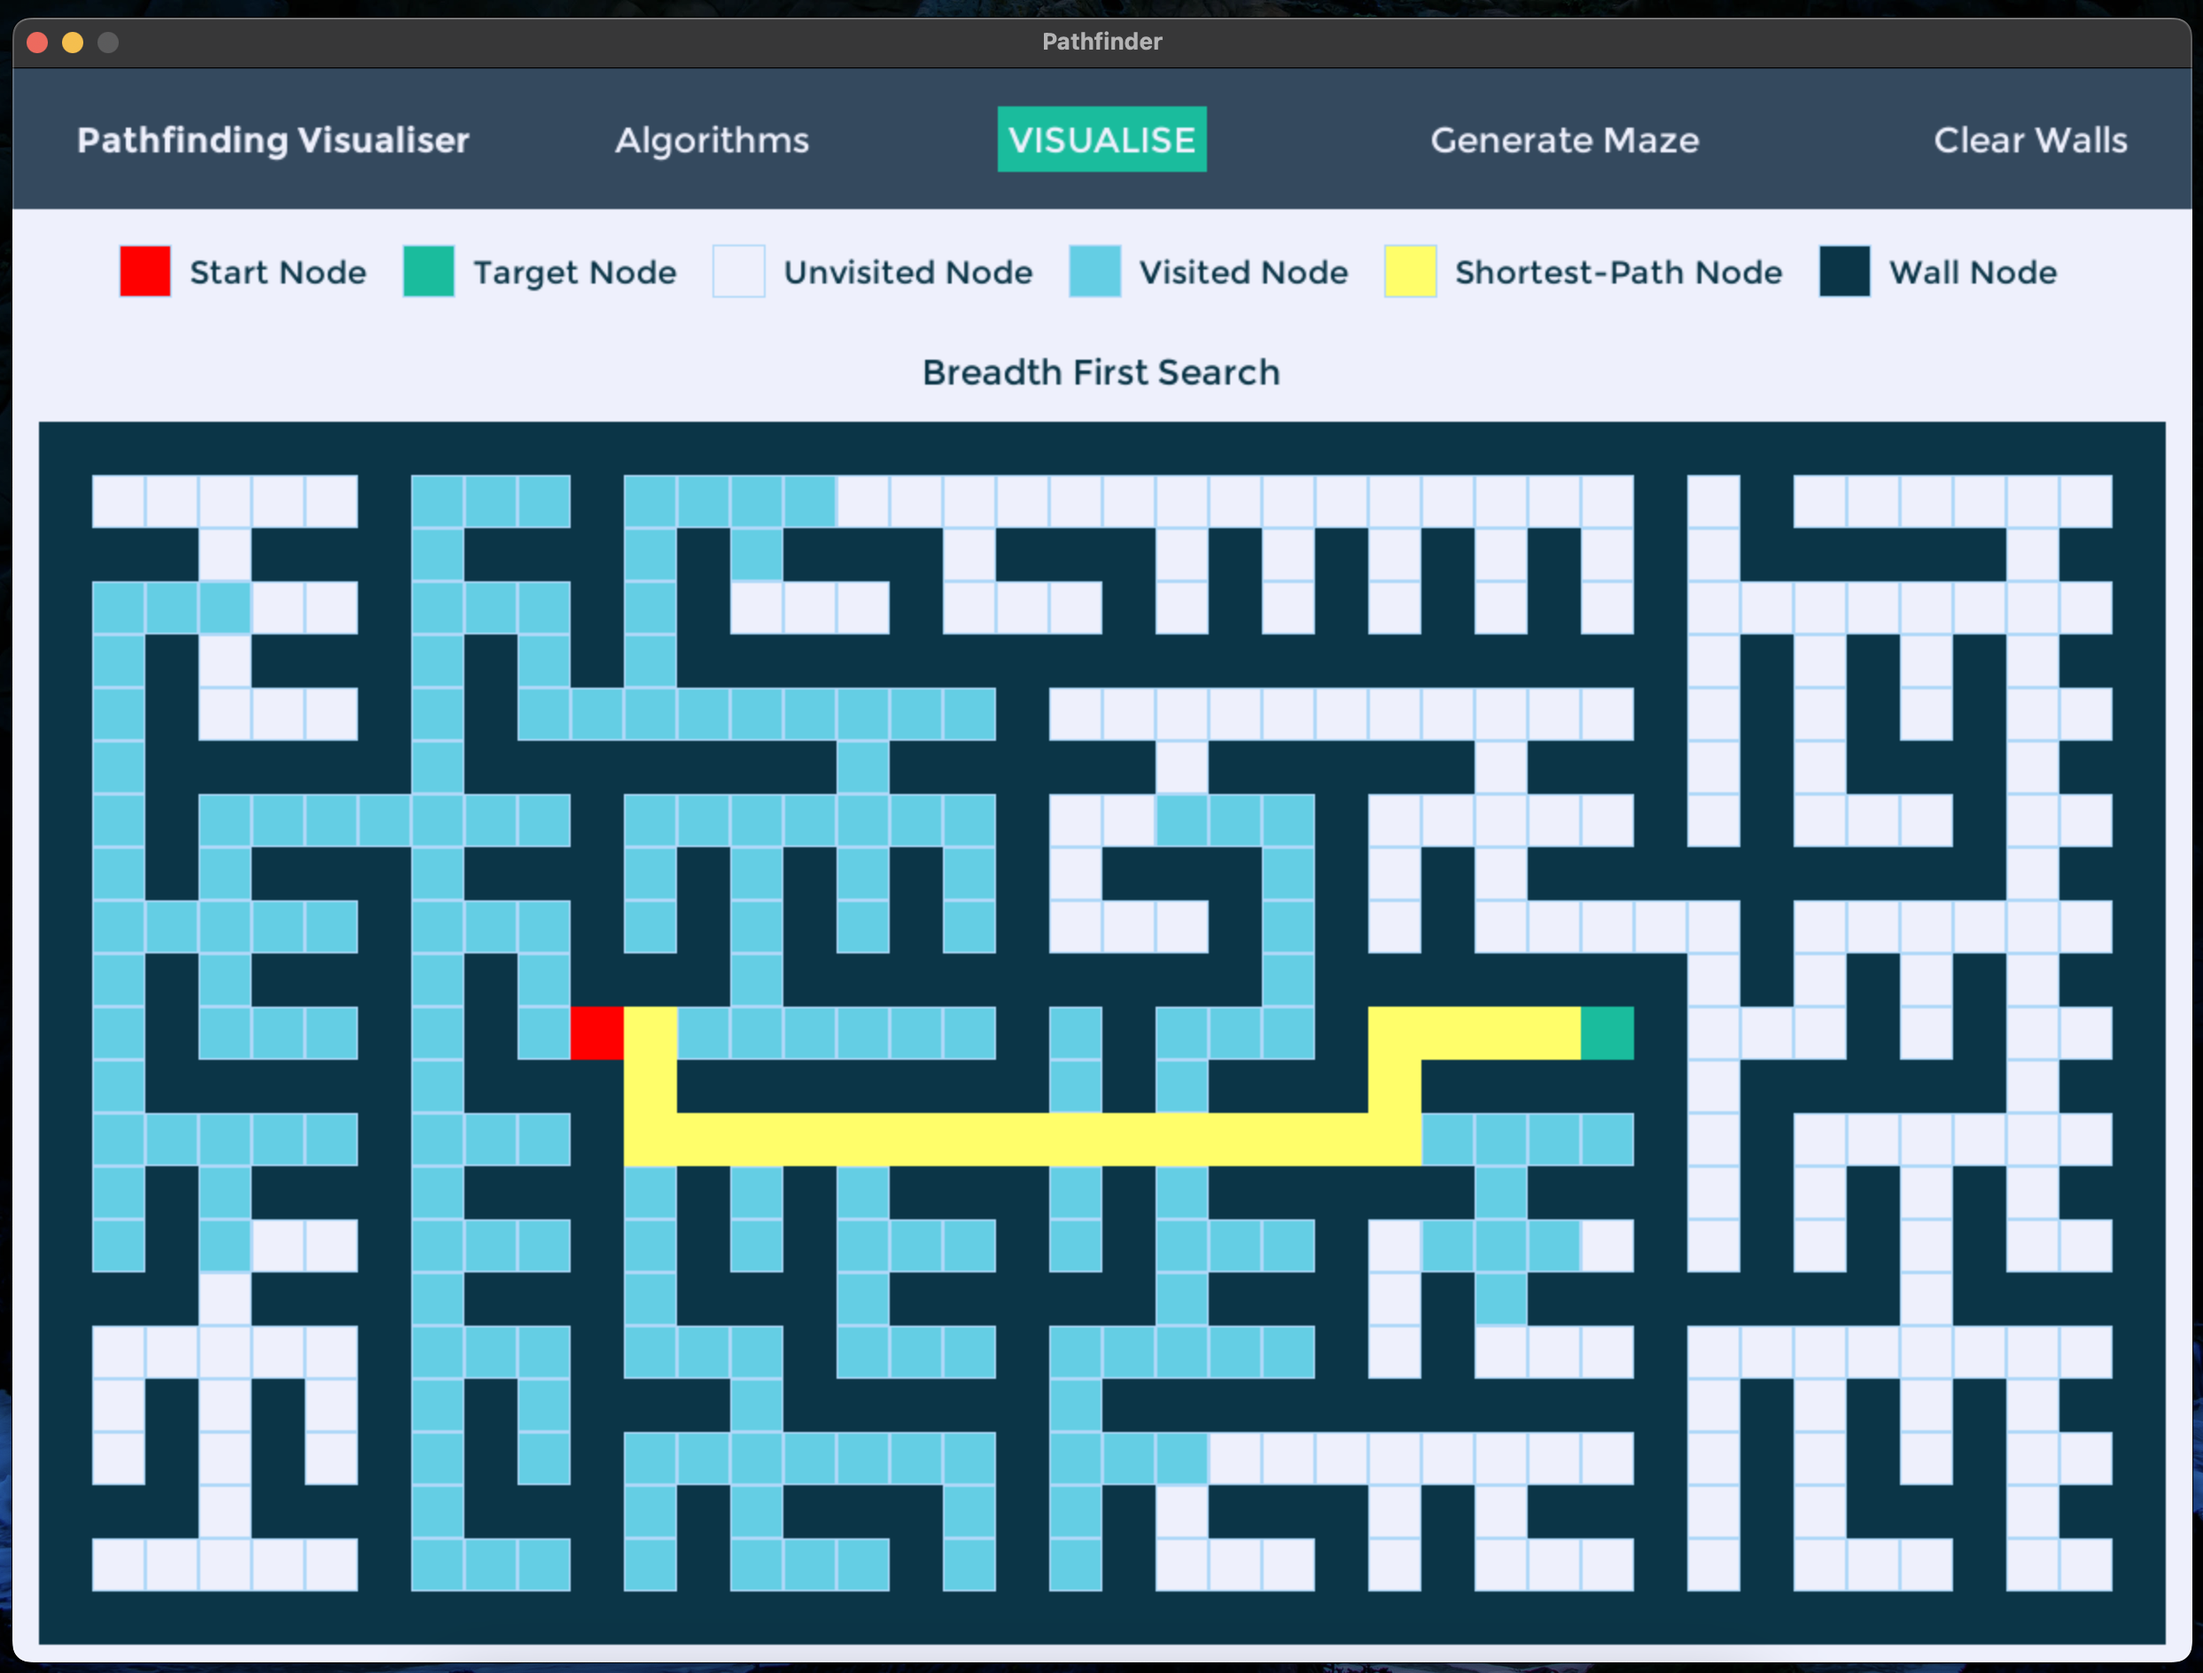
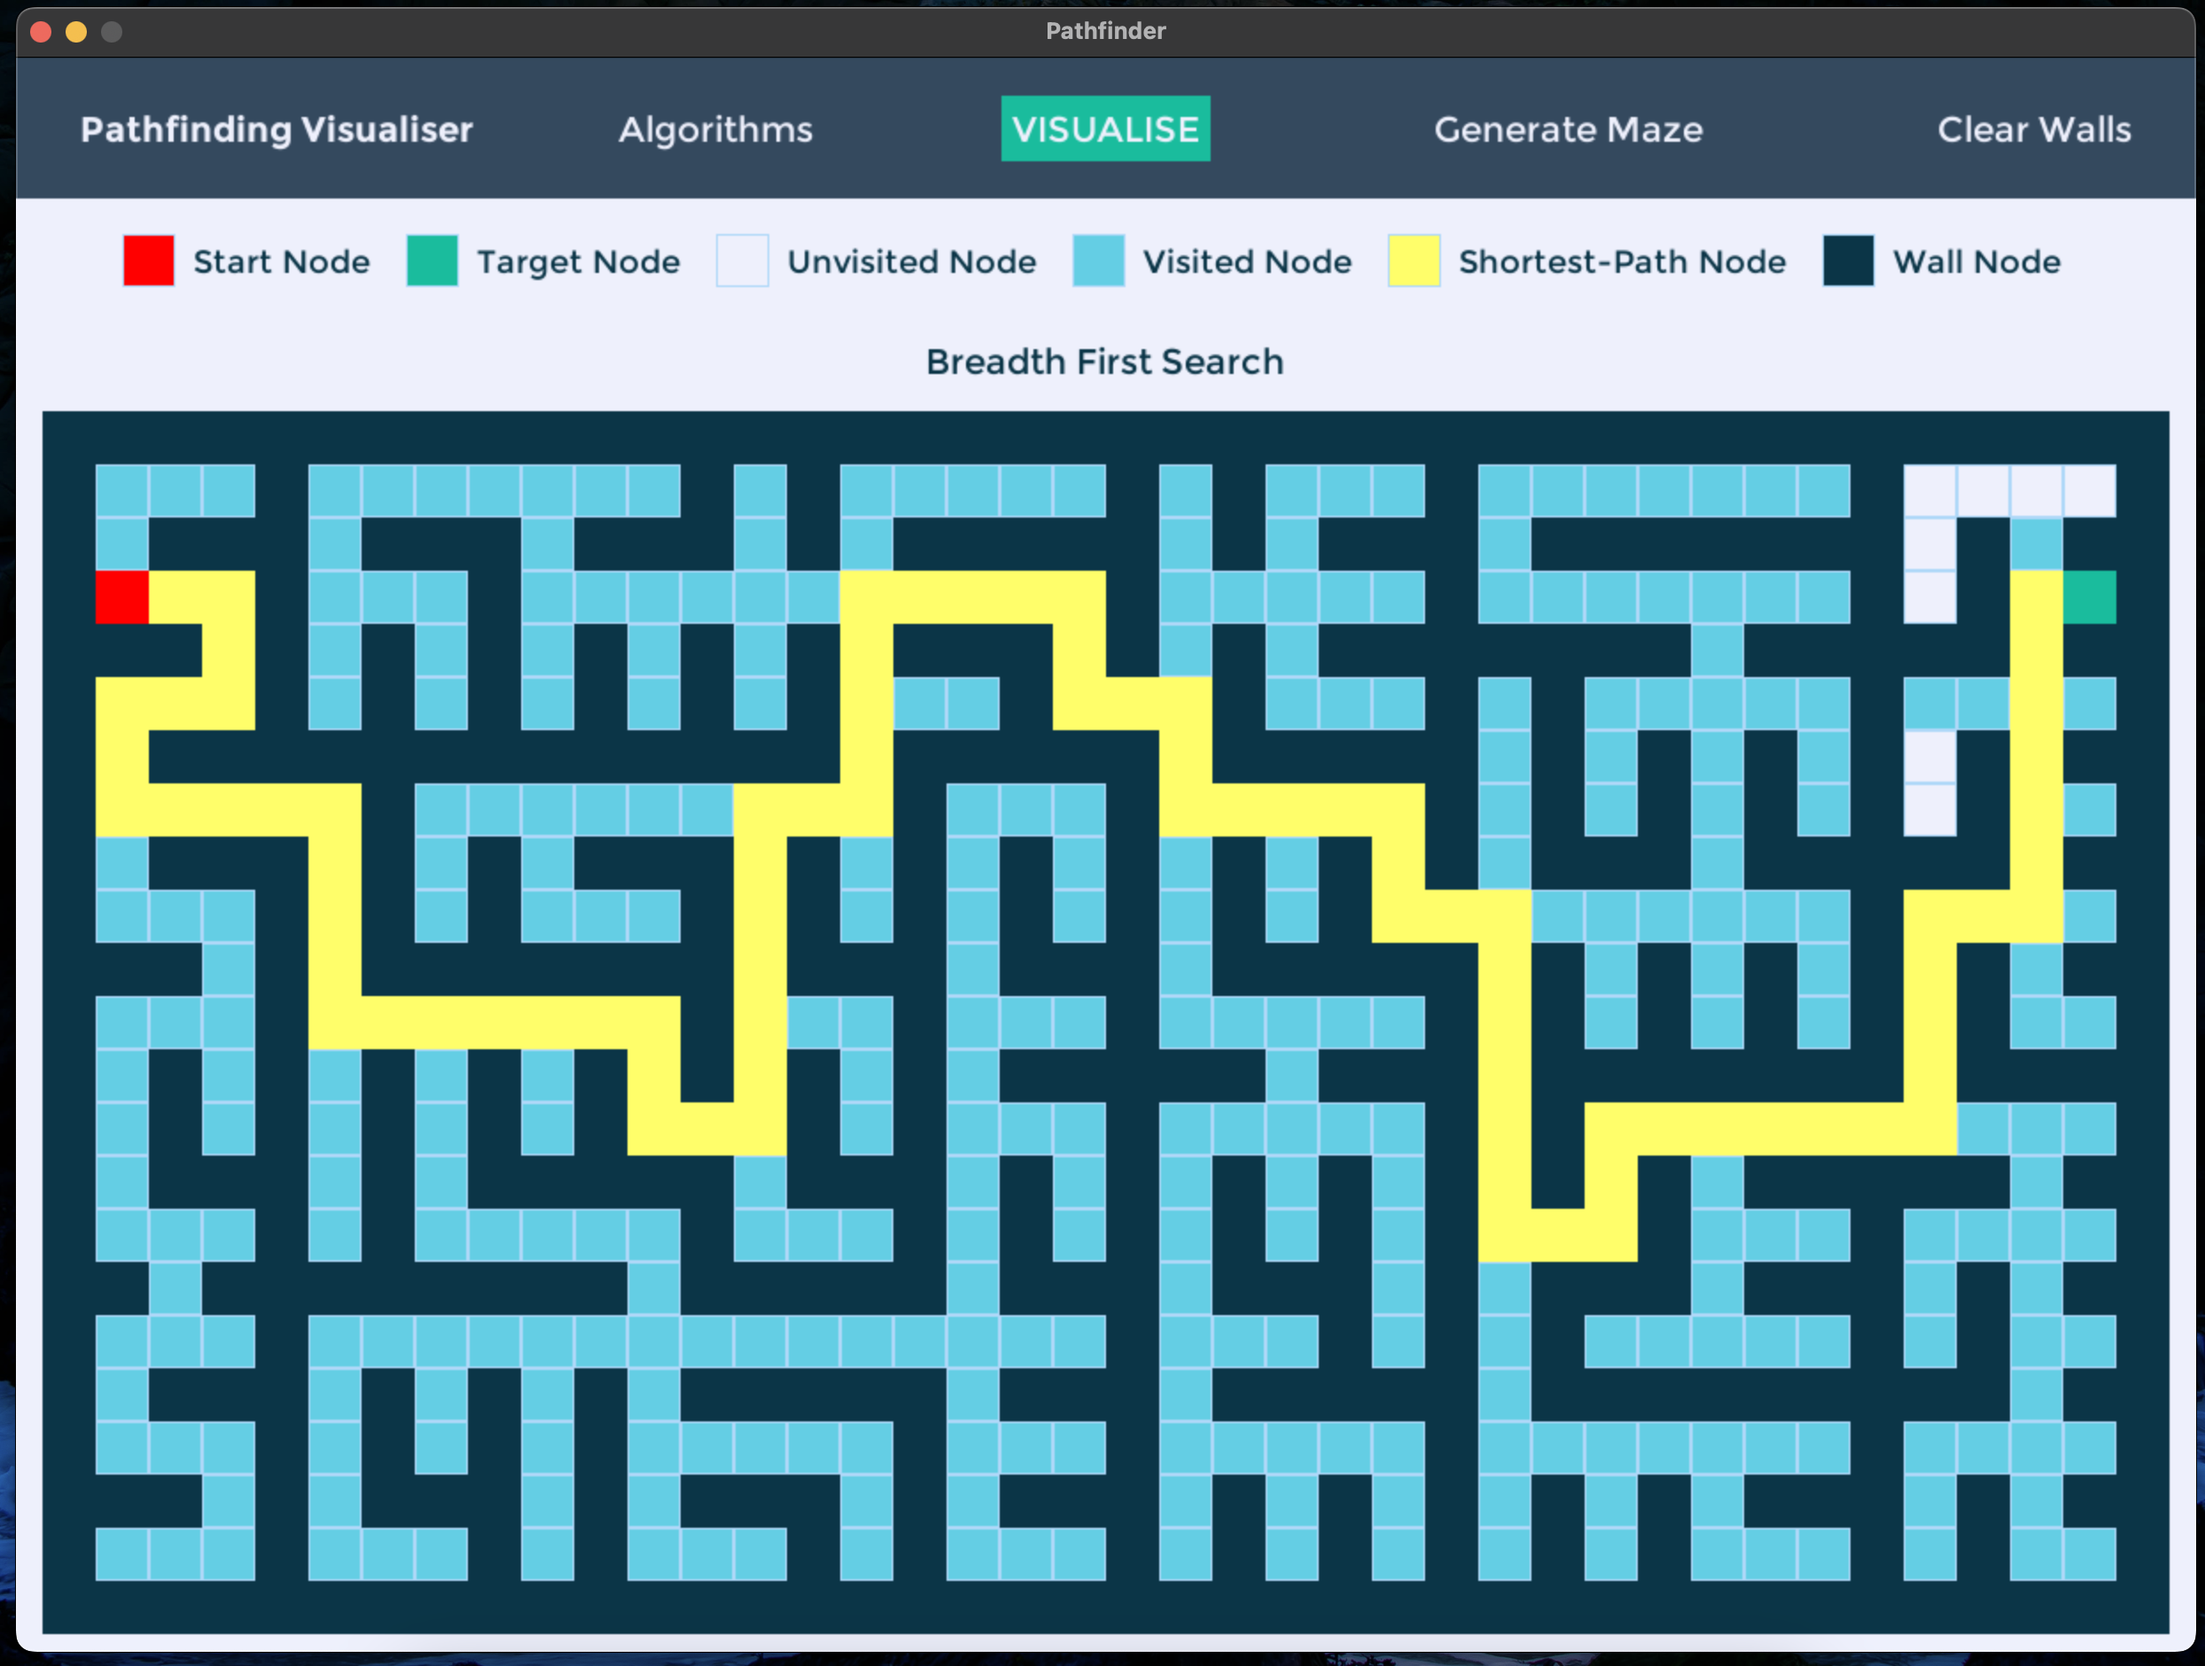
Add Dijkstra's algorithm and update screenshots

diff --git a/src/pathfinder/search/dijkstras.py b/src/pathfinder/search/dijkstras.py
@@ -1,0 +1,79 @@
+from __future__ import annotations
+from typing import Optional
+
+
+from ..types import Visualiser
+from ..models.frontier import PriorityQueueFrontier
+from ..models.node import Node, Node
+from ..models.grid import Grid
+from ..models.solution import NoSolution, Solution
+
+
+class DijkstrasSearch:
+    @staticmethod
+    def search(grid: Grid, callback: Optional[Visualiser] = None) -> Solution:
+        """Find path between two points in a grid using A* Search
+
+        Args:
+            grid (Grid): Grid of points
+            callback (Optional[Visualiser], optional): Callback for 
+            visualisation. Defaults to None.
+
+        Returns:
+            Solution: Solution found
+        """
+        # Create Node for the source cell
+        node = Node(state=grid.start, parent=None, action=None)
+
+        # Instantiate PriorityQueue frontier and add node into it
+        frontier = PriorityQueueFrontier()
+        frontier.add(node)
+
+        # Keep track of G scores
+        distance = {grid.start: 0}
+
+        while True:
+            # Return empty Solution object for no solution
+            if frontier.is_empty():
+                return NoSolution([], set(distance))
+
+            # Remove node from the frontier
+            node = frontier.pop()
+
+            # If reached destination point
+            if node.state == grid.end:
+
+                # Generate path and return a Solution object
+                cells = []
+
+                temp = node
+                while temp.parent != None:
+                    cells.append(temp.state)
+                    temp = temp.parent
+
+                cells.append(grid.start)
+                cells.reverse()
+
+                return Solution(cells, set(distance))
+
+            # Call the visualiser function, if provided
+            if node.parent and callback:
+                callback(node.state, delay=True)
+
+            # Determine possible actions
+            for action, state in grid.get_neighbours(node.state).items():
+                cost = distance[node.state] + 1
+
+                if state not in distance or cost < distance[state]:
+                    distance[state] = cost
+
+                    n = frontier.get(state)
+                    n.parent = node
+
+                    if not n.action:
+                        n.action = action
+
+                    frontier.add(
+                        node=n,
+                        priority=cost
+                    )

diff --git a/src/main.py b/src/main.py
@@ -64,7 +64,7 @@ def main() -> None:
 
     algo_list = [
         Button(
-            text="Breadth First Search",
+            text="A* Search",
             x=algorithm_btn.rect.x - 40,
             y=algorithm_btn.rect.y + algorithm_btn.height,
             background_color=pygame.Color(*DARK_BLUE),
@@ -72,7 +72,7 @@ def main() -> None:
             padding=6, font_size=20, outline=False
         ),
         Button(
-            text="Depth First Search",
+            text="Dijkstra's Search",
             x=algorithm_btn.rect.x - 40,
             y=algorithm_btn.rect.y + algorithm_btn.height * 2,
             background_color=pygame.Color(*DARK_BLUE),
@@ -80,9 +80,17 @@ def main() -> None:
             padding=6, font_size=20, outline=False
         ),
         Button(
-            text="A* Search",
+            text="Breadth First Search",
             x=algorithm_btn.rect.x - 40,
             y=algorithm_btn.rect.y + algorithm_btn.height * 3,
+            background_color=pygame.Color(*DARK_BLUE),
+            foreground_color=pygame.Color(*WHITE),
+            padding=6, font_size=20, outline=False
+        ),
+        Button(
+            text="Depth First Search",
+            x=algorithm_btn.rect.x - 40,
+            y=algorithm_btn.rect.y + algorithm_btn.height * 4,
             background_color=pygame.Color(*DARK_BLUE),
             foreground_color=pygame.Color(*WHITE),
             padding=6, font_size=20, outline=False

diff --git a/src/pathfinder/main.py b/src/pathfinder/main.py
@@ -1,15 +1,18 @@
+from .search.astar import AStarSearch
+from .search.bfs import BreadthFirstSearch
+from .search.dfs import DepthFirstSearch
+from .search.dijkstras import DijkstrasSearch
 from .models.grid import Grid
 from .models.solution import Solution
 from .models.search_types import Search
-from .search.dfs import DepthFirstSearch
-from .search.bfs import BreadthFirstSearch
-from .search.astar import AStarSearch
+from .models.search_types import Search
 from .types import SearchFunction, Visualiser
 
 SEARCH: dict[Search, SearchFunction] = {
+    Search.ASTAR_SEARCH: AStarSearch.search,
+    Search.DIJKSTRAS_SEARCH: DijkstrasSearch.search,
     Search.BREADTH_FIRST_SEARCH: BreadthFirstSearch.search,
     Search.DEPTH_FIRST_SEARCH: DepthFirstSearch.search,
-    Search.ASTAR_SEARCH: AStarSearch.search,
 }
 
 

diff --git a/src/maze.py b/src/maze.py
@@ -302,9 +302,10 @@ class Maze:
         """
         # String -> Search Algorithm
         mapper: dict[str, Search] = {
+            "A* Search": Search.ASTAR_SEARCH,
+            "Dijkstra's Search": Search.DIJKSTRAS_SEARCH,
             "Breadth First Search": Search.BREADTH_FIRST_SEARCH,
             "Depth First Search": Search.DEPTH_FIRST_SEARCH,
-            "A* Search": Search.ASTAR_SEARCH,
         }
 
         # Instantiate Grid for PathFinder

diff --git a/src/pathfinder/models/search_types.py b/src/pathfinder/models/search_types.py
@@ -4,6 +4,7 @@ from enum import Enum
 class Search(Enum):
     """Enum for search algorithms"""
 
+    ASTAR_SEARCH = "A*"
+    DIJKSTRAS_SEARCH = "DS"
     BREADTH_FIRST_SEARCH = "BFS"
     DEPTH_FIRST_SEARCH = "DFS"
-    ASTAR_SEARCH = "A*"

diff --git a/README.md b/README.md
@@ -3,13 +3,18 @@
 Pathfinding visualizations with Python and Pygame.
 
 ## Video
-https://user-images.githubusercontent.com/67793598/214512545-e4cacfe2-ddd6-4403-8333-4b8105dac780.mp4
 
 ## Screenshots
 <table border='0px'>
     <tr>
         <td>
-            <img src='screenshots/maze.png?raw=true' alt='Maze'
+            <img src='screenshots/maze.png?raw=true' alt='Maze' 
+                width='480'>
+        </td>
+    </tr>
+    <tr>
+        <td>
+            <img src='screenshots/astar.png?raw=true' alt='A*'
                 width='480'>
         </td>
     </tr>
